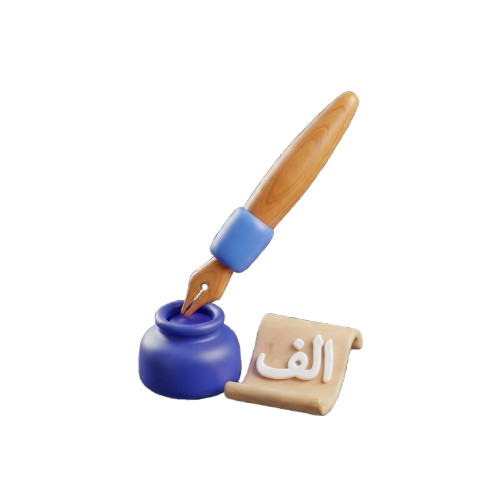
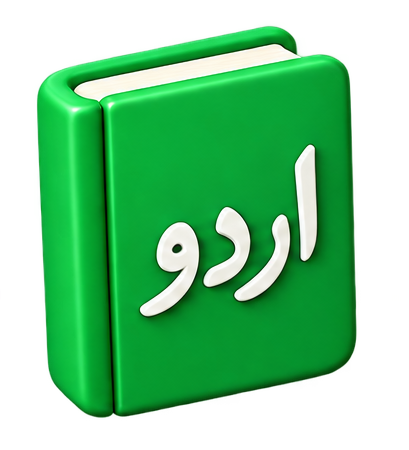
improve logout func

diff --git a/lib/screens/profile/profile_switcher/profile_switcher_screen.dart b/lib/screens/profile/profile_switcher/profile_switcher_screen.dart
@@ -6,6 +6,7 @@ import 'package:eduplay/widgets/staggered_anime.dart';
 import 'package:flutter/material.dart';
 import 'package:get/get.dart';
 
+import '../../../theme/app_colors.dart';
 import '../../../theme/app_text_styles.dart';
 import '../../../widgets/add_profile_card.dart';
 import '../widgets/welcome_bg_parent_dashboard.dart';
@@ -25,6 +26,12 @@ class _ProfileSwitcherViewState extends State<ProfileSwitcherView>
     with SingleTickerProviderStateMixin {
   late final AnimationController _controller;
   late final Worker _worker;
+
+  /// True only when this screen was pushed from the child-profile screen, which
+  /// passes {'showBackButton': true}. Every other entry point (auth, splash,
+  /// create-child) reaches the switcher via offAllNamed with no arguments, so
+  /// it's the root of the stack and shows no back button.
+  late final bool _showBackButton;
 
   // Tracks which set of (childId -> avatarUrl) pairs we last kicked off
   // precaching for, so we don't redo it on every unrelated Obx rebuild.
@@ -54,6 +61,9 @@ class _ProfileSwitcherViewState extends State<ProfileSwitcherView>
   @override
   void initState() {
     super.initState();
+    final args = Get.arguments;
+    _showBackButton = args is Map && args['showBackButton'] == true;
+
     _controller = AnimationController(
       vsync: this,
       duration: const Duration(milliseconds: 700),
@@ -91,141 +101,156 @@ class _ProfileSwitcherViewState extends State<ProfileSwitcherView>
     );
 
     return Scaffold(
-      body: Column(
-        crossAxisAlignment: CrossAxisAlignment.start,
+      body: Stack(
         children: [
-          ShaderMask(
-            shaderCallback: (Rect bounds) {
-              return const LinearGradient(
-                begin: Alignment.topCenter,
-                end: Alignment.bottomCenter,
-                colors: [
-                  Colors.white,
-                  Colors.white,
-                  Colors.white,
-                  Colors.transparent,
-                ],
-                stops: [0.0, 0.5, 0.9, 1.0],
-              ).createShader(bounds);
-            },
-            blendMode: BlendMode.dstIn,
-            child: Image.asset(
-              'assets/images/profile_switch_bg.png',
-              fit: BoxFit.cover,
-            ),
-          ),
-          SizedBox(height: 13),
-          OpenContainer(
-            transitionDuration: const Duration(milliseconds: 600),
-            transitionType: ContainerTransitionType.fade,
-
-            closedElevation: 0,
-            openElevation: 0,
-
-            closedShape: RoundedRectangleBorder(
-              borderRadius: BorderRadius.circular(20),
-            ),
-
-            openShape: const RoundedRectangleBorder(
-              borderRadius: BorderRadius.zero,
-            ),
-
-            closedBuilder: (context, openContainer) {
-              return Padding(
-                padding: const EdgeInsets.symmetric(horizontal: 15),
-                child: Obx(() {
-                  return WelcomeBackground(
-                    welcomeText: 'Welcome',
-                    subtitleText:
-                        "You're doing a wonderful job supporting your children's journey.",
-                    childrenCount: vm.children.length,
-                    starsCount: vm.totalStars.value,
-                    userName: session.parentName.value ?? 'User',
-                  );
-                }),
-              );
-            },
-
-            openBuilder: (context, _) {
-              ParentSettingsBinding().dependencies();
-
-              return ParentSettingsView();
-            },
-          ),
-
-          SizedBox(height: 12),
-
-          Expanded(
-            child: Obx(() {
-              if (vm.isLoading.value) {
-                return const ProfileCardSkeletonList();
-              }
-
-              if (vm.errorMessage.isNotEmpty) {
-                return Center(
-                  child: Column(
-                    mainAxisSize: MainAxisSize.min,
-                    children: [
-                      const SizedBox(height: 12),
-                      Text(
-                        vm.errorMessage.value,
-                        style: AppTextStyles.bodySecondary,
-                      ),
-                      const SizedBox(height: 12),
-                      TextButton(
-                        onPressed: vm.fetchChildren,
-                        child: const Text('Try again'),
-                      ),
+          Column(
+            crossAxisAlignment: CrossAxisAlignment.start,
+            children: [
+              ShaderMask(
+                shaderCallback: (Rect bounds) {
+                  return const LinearGradient(
+                    begin: Alignment.topCenter,
+                    end: Alignment.bottomCenter,
+                    colors: [
+                      Colors.white,
+                      Colors.white,
+                      Colors.white,
+                      Colors.transparent,
                     ],
-                  ),
-                );
-              }
+                    stops: [0.0, 0.5, 0.9, 1.0],
+                  ).createShader(bounds);
+                },
+                blendMode: BlendMode.dstIn,
+                child: Image.asset(
+                  'assets/images/profile_switch_bg.png',
+                  fit: BoxFit.cover,
+                ),
+              ),
+              SizedBox(height: 13),
+              OpenContainer(
+                transitionDuration: const Duration(milliseconds: 600),
+                transitionType: ContainerTransitionType.fade,
 
-              // Recompute only when the actual (child, avatarUrl) pairs
-              // change, so this doesn't fire on every Obx rebuild.
-              final key = vm.children
-                  .map((c) => '${c.id}:${vm.avatarUrlByChild[c.id]}')
-                  .join(',');
-              if (_precachedKey != key) {
-                _precachedKey = key;
-                _precacheFuture = _precacheAvatars(vm);
-              }
+                closedElevation: 0,
+                openElevation: 0,
 
-              return FutureBuilder<void>(
-                future: _precacheFuture,
-                builder: (context, snapshot) {
-                  if (snapshot.connectionState != ConnectionState.done) {
+                closedShape: RoundedRectangleBorder(
+                  borderRadius: BorderRadius.circular(20),
+                ),
+
+                openShape: const RoundedRectangleBorder(
+                  borderRadius: BorderRadius.zero,
+                ),
+
+                closedBuilder: (context, openContainer) {
+                  return Padding(
+                    padding: const EdgeInsets.symmetric(horizontal: 15),
+                    child: Obx(() {
+                      return WelcomeBackground(
+                        welcomeText: 'Welcome',
+                        subtitleText:
+                            "You're doing a wonderful job supporting your children's journey.",
+                        childrenCount: vm.children.length,
+                        starsCount: vm.totalStars.value,
+                        userName: session.parentName.value ?? 'User',
+                      );
+                    }),
+                  );
+                },
+
+                openBuilder: (context, _) {
+                  ParentSettingsBinding().dependencies();
+
+                  return ParentSettingsView();
+                },
+              ),
+
+              SizedBox(height: 12),
+
+              Expanded(
+                child: Obx(() {
+                  if (vm.isLoading.value) {
                     return const ProfileCardSkeletonList();
                   }
 
-                  final items = [...vm.children, null];
+                  if (vm.errorMessage.isNotEmpty) {
+                    return Center(
+                      child: Column(
+                        mainAxisSize: MainAxisSize.min,
+                        children: [
+                          const SizedBox(height: 12),
+                          Text(
+                            vm.errorMessage.value,
+                            style: AppTextStyles.bodySecondary,
+                          ),
+                          const SizedBox(height: 12),
+                          TextButton(
+                            onPressed: vm.fetchChildren,
+                            child: const Text('Try again'),
+                          ),
+                        ],
+                      ),
+                    );
+                  }
 
-                  return ListView.builder(
-                    padding: EdgeInsets.symmetric(horizontal: 12),
-                    physics: const BouncingScrollPhysics(),
-                    shrinkWrap: true,
-                    itemCount: items.length,
-                    itemBuilder: (context, index) {
-                      final child = items[index];
-                      return StaggeredAnimation(
-                        controller: _controller,
-                        index: index,
-                        child: child == null
-                            ? AddProfileCard(onTap: vm.goToCreateProfile)
-                            : ProfileCard(
-                                child: child,
-                                stars: vm.starsByChild[child.id] ?? 0,
-                                streak: vm.streakByChild[child.id] ?? 0,
-                                avatarUrl: vm.avatarUrlByChild[child.id],
-                                onTap: () => vm.selectChild(child),
-                              ),
+                  // Recompute only when the actual (child, avatarUrl) pairs
+                  // change, so this doesn't fire on every Obx rebuild.
+                  final key = vm.children
+                      .map((c) => '${c.id}:${vm.avatarUrlByChild[c.id]}')
+                      .join(',');
+                  if (_precachedKey != key) {
+                    _precachedKey = key;
+                    _precacheFuture = _precacheAvatars(vm);
+                  }
+
+                  return FutureBuilder<void>(
+                    future: _precacheFuture,
+                    builder: (context, snapshot) {
+                      if (snapshot.connectionState != ConnectionState.done) {
+                        return const ProfileCardSkeletonList();
+                      }
+
+                      final items = [...vm.children, null];
+
+                      return ListView.builder(
+                        padding: EdgeInsets.symmetric(horizontal: 12),
+                        physics: const BouncingScrollPhysics(),
+                        shrinkWrap: true,
+                        itemCount: items.length,
+                        itemBuilder: (context, index) {
+                          final child = items[index];
+                          return StaggeredAnimation(
+                            controller: _controller,
+                            index: index,
+                            child: child == null
+                                ? AddProfileCard(onTap: vm.goToCreateProfile)
+                                : ProfileCard(
+                                    child: child,
+                                    stars: vm.starsByChild[child.id] ?? 0,
+                                    streak: vm.streakByChild[child.id] ?? 0,
+                                    avatarUrl: vm.avatarUrlByChild[child.id],
+                                    onTap: () => vm.selectChild(child),
+                                  ),
+                          );
+                        },
                       );
                     },
                   );
-                },
-              );
-            }),
+                }),
+              ),
+            ],
           ),
+          if (_showBackButton)
+            Positioned(
+              top: 0,
+              left: 0,
+              child: SafeArea(
+                child: IconButton(
+                  icon: const Icon(Icons.arrow_back, color: AppColors.white),
+                  onPressed: () => Get.back(),
+                ),
+              ),
+            ),
         ],
       ),
     );

diff --git a/lib/screens/parent_settings/parent_settings_controller.dart b/lib/screens/parent_settings/parent_settings_controller.dart
@@ -28,6 +28,7 @@ class ParentSettingsController extends GetxController {
   var isChangingPassword = false.obs;
   var passwordErrorMessage = ''.obs;
   var isLoadingAvatar = true.obs;
+  var isLoggingOut = false.obs;
 
   late Future<void> loadingParentAvatar;
 
@@ -135,13 +136,20 @@ class ParentSettingsController extends GetxController {
   }
 
   Future<void> logout() async {
-    await session.logout();
-    Get.delete<ProfileSwitcherViewModel>(force: true);
-    Get.delete<DashboardController>(force: true);
-    ChildProfileRepository.clearCache();
-    ParentRepository.clearCache();
-
-    Get.offAllNamed(AppRoutes.login);
+    if (isLoggingOut.value) return; // guard against a double-tap
+    isLoggingOut.value = true;
+    try {
+      await session.logout();
+      Get.delete<ProfileSwitcherViewModel>(force: true);
+      Get.delete<DashboardController>(force: true);
+      ChildProfileRepository.clearCache();
+      ParentRepository.clearCache();
+      Get.offAllNamed(AppRoutes.login);
+    } catch (e) {
+      log('Logout failed: $e');
+      isLoggingOut.value = false;
+      Get.snackbar('Logout failed', 'Something went wrong. Please try again.');
+    }
   }
 
   @override

diff --git a/lib/screens/parent_settings/parent_settings_screen.dart b/lib/screens/parent_settings/parent_settings_screen.dart
@@ -232,13 +232,21 @@ class ParentSettingsView extends StatelessWidget {
           style: AppTextStyles.bodySecondary,
         ),
         actions: [
-          ElevatedButton(
-            onPressed: () async {
-              Get.back();
-              await vm.logout();
-            },
-            style: ElevatedButton.styleFrom(backgroundColor: AppColors.error),
-            child: const Text('Log Out'),
+          Obx(
+            () => ElevatedButton(
+              onPressed: vm.isLoggingOut.value ? null : vm.logout,
+              style: ElevatedButton.styleFrom(backgroundColor: AppColors.error),
+              child: vm.isLoggingOut.value
+                  ? const SizedBox(
+                      height: 18,
+                      width: 18,
+                      child: CircularProgressIndicator(
+                        strokeWidth: 2,
+                        color: Colors.white,
+                      ),
+                    )
+                  : const Text('Log Out'),
+            ),
           ),
         ],
       ),

diff --git a/lib/screens/home/child_profile/profile.dart b/lib/screens/home/child_profile/profile.dart
@@ -194,7 +194,12 @@ class _ProfileViewState extends State<ProfileView>
                     subtitle: 'Change to a different child',
                     color: AppColors.primary,
                     onTap: () async {
-                      Get.toNamed(AppRoutes.profileSwitcher);
+                      // Pushed (not offAllNamed), so the switcher has somewhere
+                      // to return to — tell it to show a back button.
+                      Get.toNamed(
+                        AppRoutes.profileSwitcher,
+                        arguments: {'showBackButton': true},
+                      );
                     },
                   ),
                 ],
